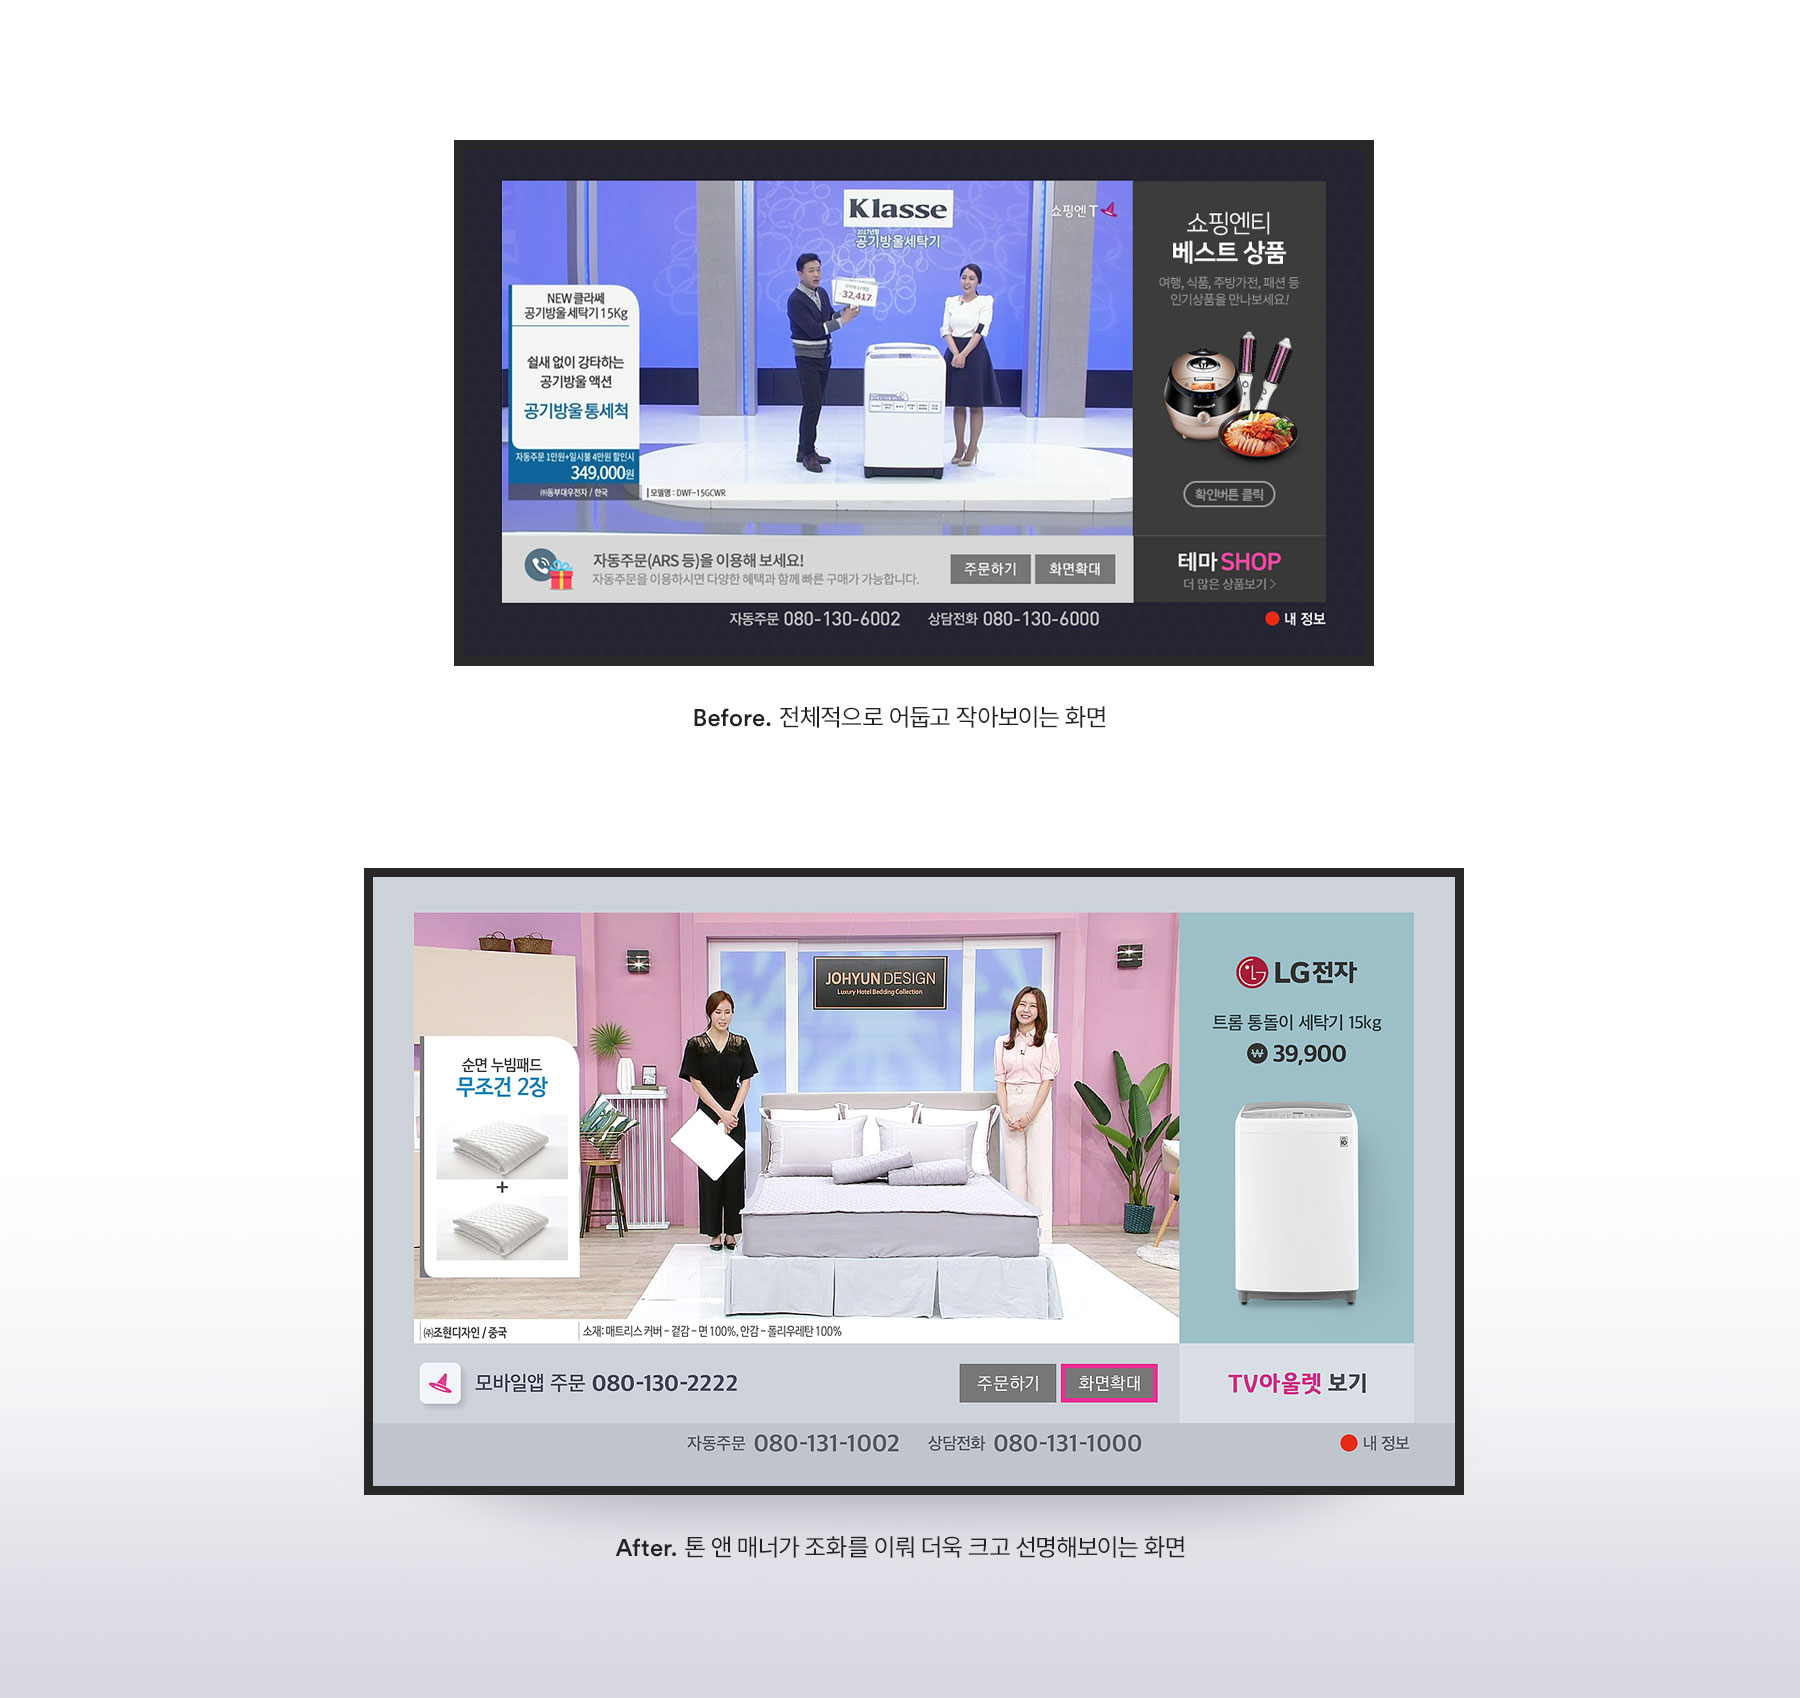
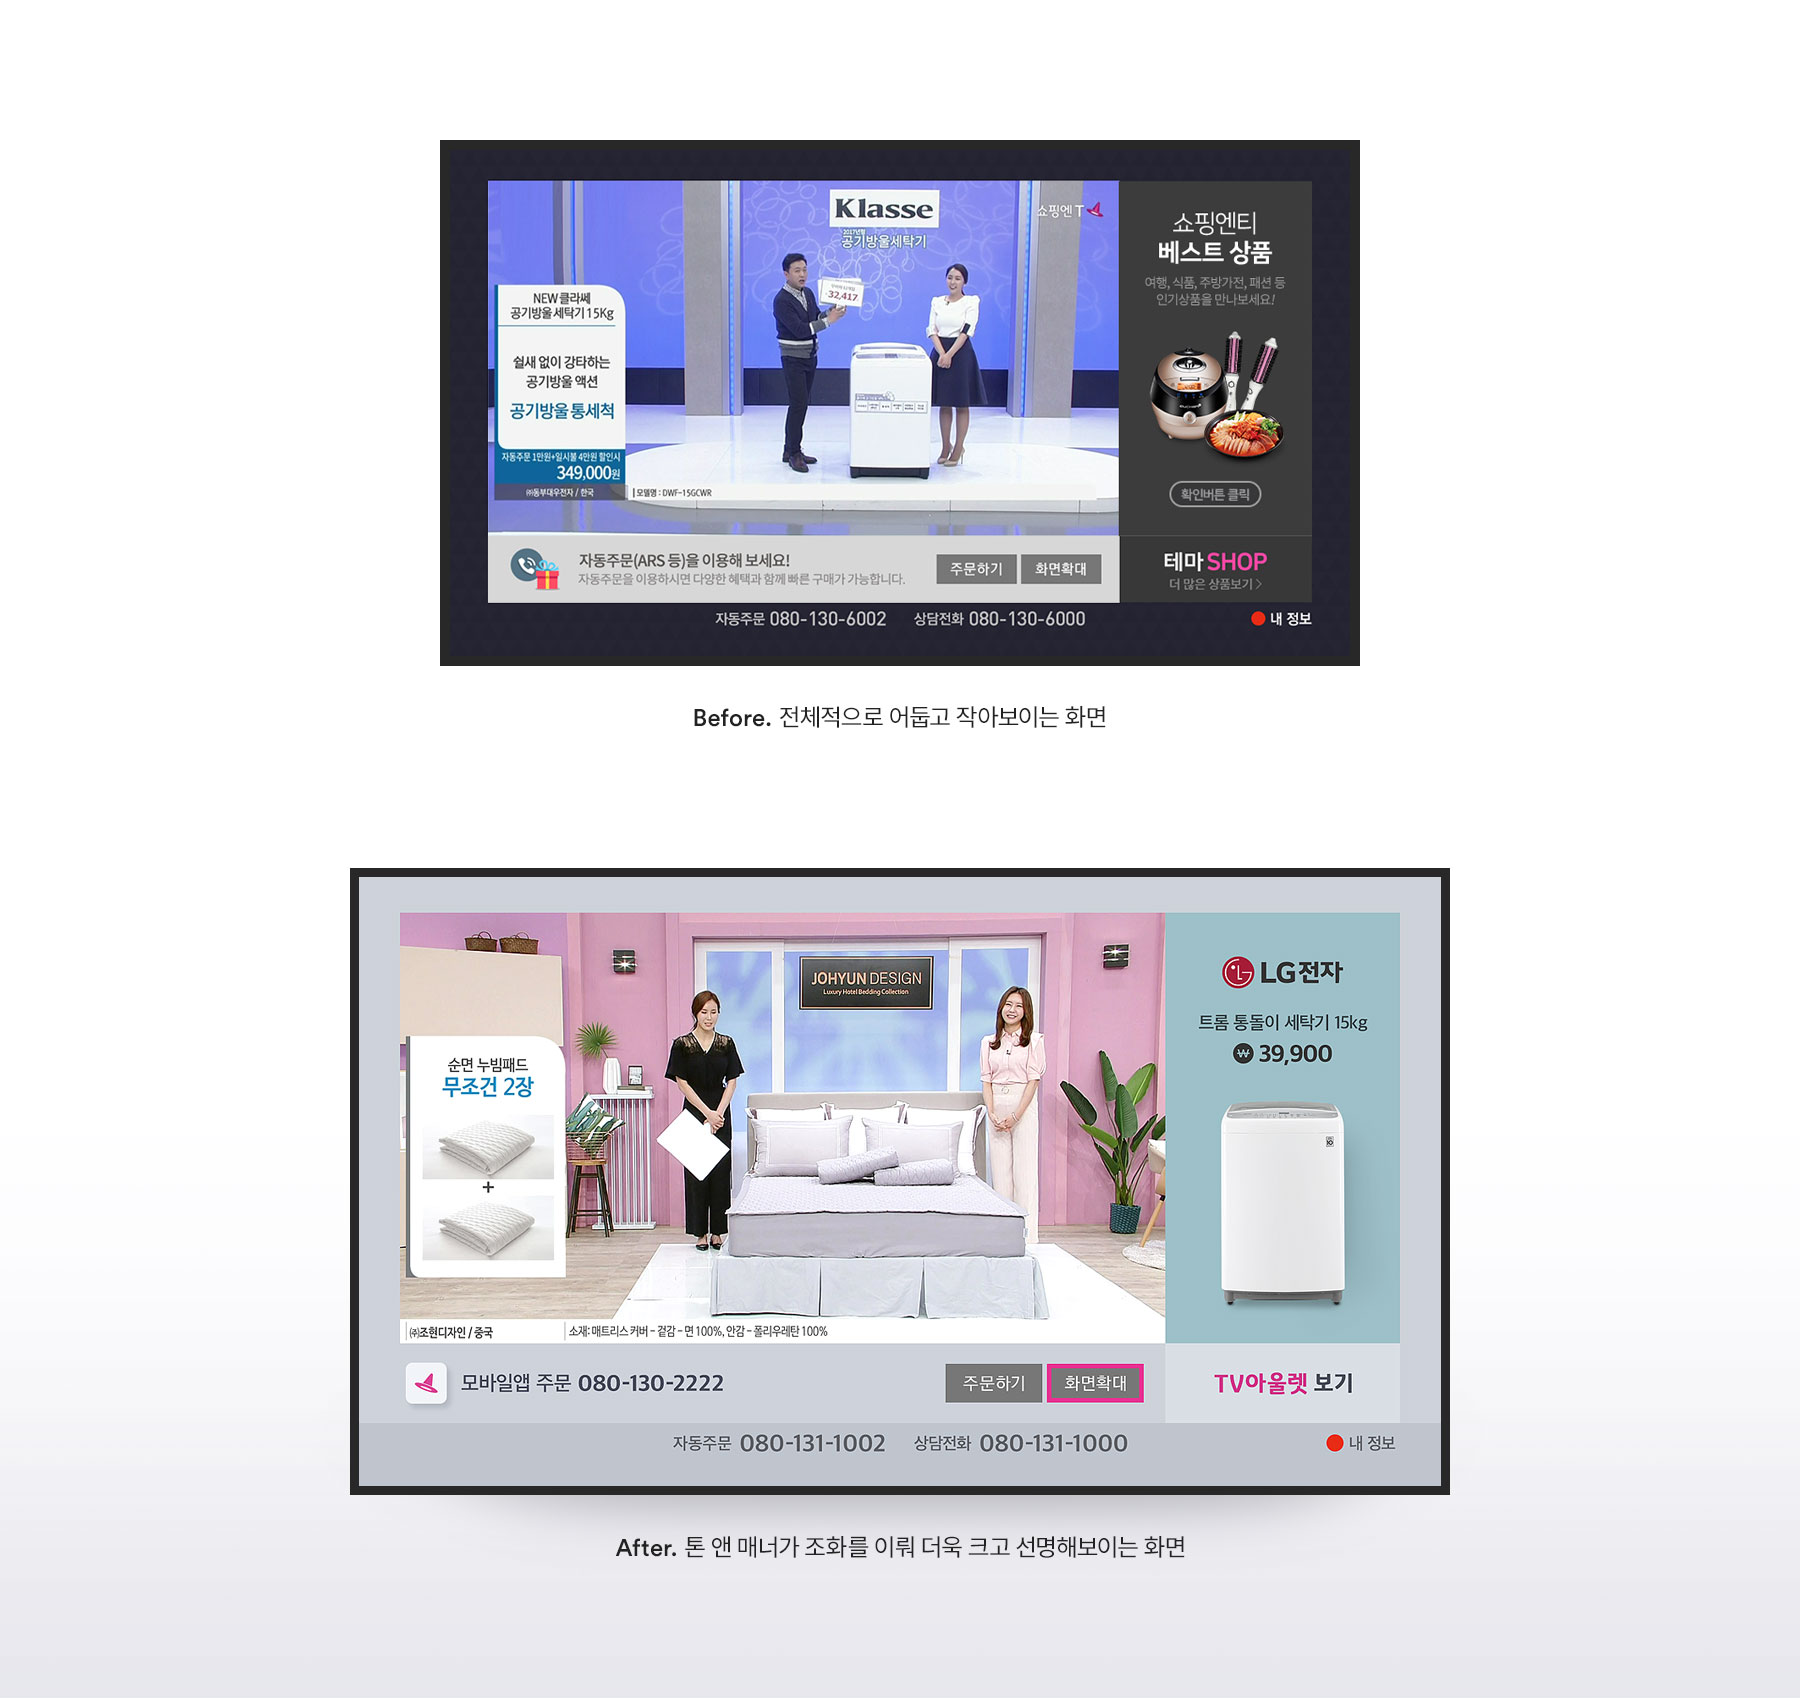
image size changed / file name changed shoppingntapp to shoppingnttvapp

diff --git a/index.html b/index.html
@@ -87,11 +87,11 @@
                     <!-- 포트폴리오 -->
                     <ul class="portfolio">
                         <li data-animation="fadeInUp" data-delay="0">
-                            <img src="images/thumbnails/tn_shoppingntapp.jpg" alt="">
-                            <a href="page/shoppingntapp.html">
+                            <img src="images/thumbnails/tn_shoppingnttvapp.jpg" alt="">
+                            <a href="page/shoppingnttvapp.html">
                                 <div class="overlay">
                                     <span class="tit">Shopping&T TV App</span>
-                                    <small>UI/UX, Promotion</small>
+                                    <small>UI/UX</small>
                                 </div>
                             </a>
                         </li>

diff --git a/page/shoppingnttvapp.html b/page/shoppingnttvapp.html
@@ -120,7 +120,7 @@
                         </p>
                     </div>
                 </div>
-                <div class="container screenshot">
+                <div class="screenshot">
                     <img src="../images/shoppingnt_tvapp_03.jpg" alt="" data-animation="fadeInUp" data-delay="2">
                 </div>
 				<div class="container">
@@ -156,7 +156,7 @@
                         </p>
                     </div>
                 </div>
-                <div class="container screenshot">
+                <div class="screenshot">
                     <img src="../images/shoppingnt_tvapp_05.jpg" alt="" data-animation="fadeInUp" data-delay="2">
                 </div>
                 <div class="container">
